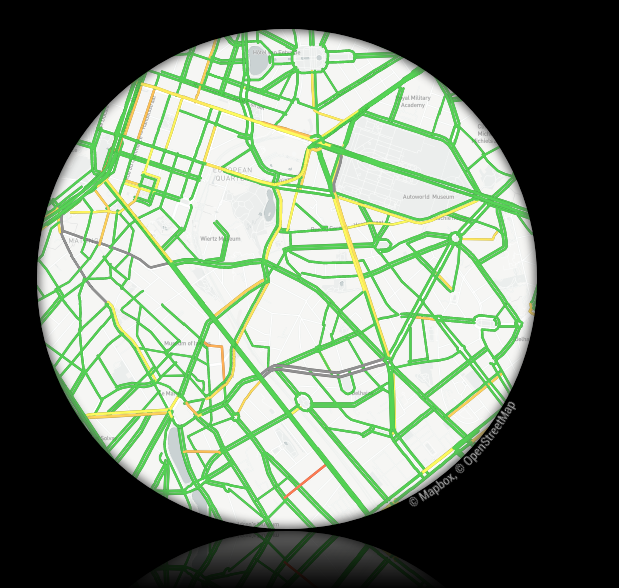
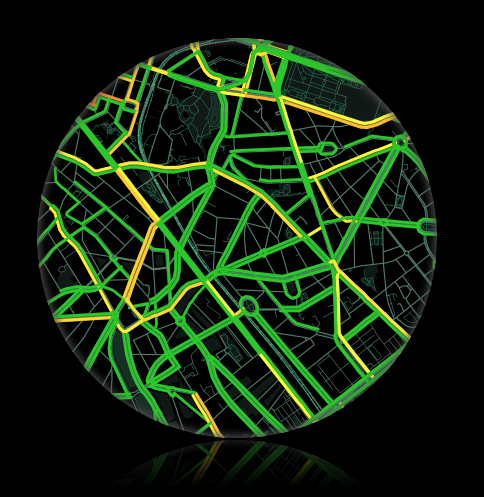
Change default mapbox id

diff --git a/MMM-TomTomTraffic.js b/MMM-TomTomTraffic.js
@@ -49,7 +49,7 @@ Module.register("MMM-TomTomTraffic", {
     if (this.config.mapbox && this.config.mapbox.apiToken) {
       L.tileLayer("https://api.mapbox.com/styles/v1/{id}/tiles/{z}/{x}/{y}?access_token={accessToken}", {
         maxZoom: 18,
-        id: this.config.mapbox.mapId || "mapbox/dark-v10",
+        id: this.config.mapbox.mapId || "bendardenne/ck7zw0fl90ptz1ikx97gvb6zb",
         accessToken: this.config.mapbox.apiToken
       }).addTo(map);
     }

diff --git a/README.md b/README.md
@@ -44,7 +44,7 @@ Option             | Description
 `tomtom.apiToken`  | _Required_ Tom Tom API token.
 `tomtom.thickness` | _Optional_ Thickness factor for the traffic lines. Default: 5
 `mapbox.apiToken`  | _Optional_ Mapbox API token. If not provided, no background data will be shown.
-`mapbox.mapId`     | _Optional_ Mapbox map id. This is of the form "user/styleId". Mapbox provides a couple of default styles. You can also make your own style in MapBox studio. By default, we use MapBox Light v10.
+`mapbox.mapId`     | _Optional_ Mapbox map id. This is of the form "user/styleId". Mapbox provides a couple of default styles. You can also make your own style in MapBox studio. The default style is a slightly tweaked version of Decimal (without labels).
 
 ## API tokens
 
